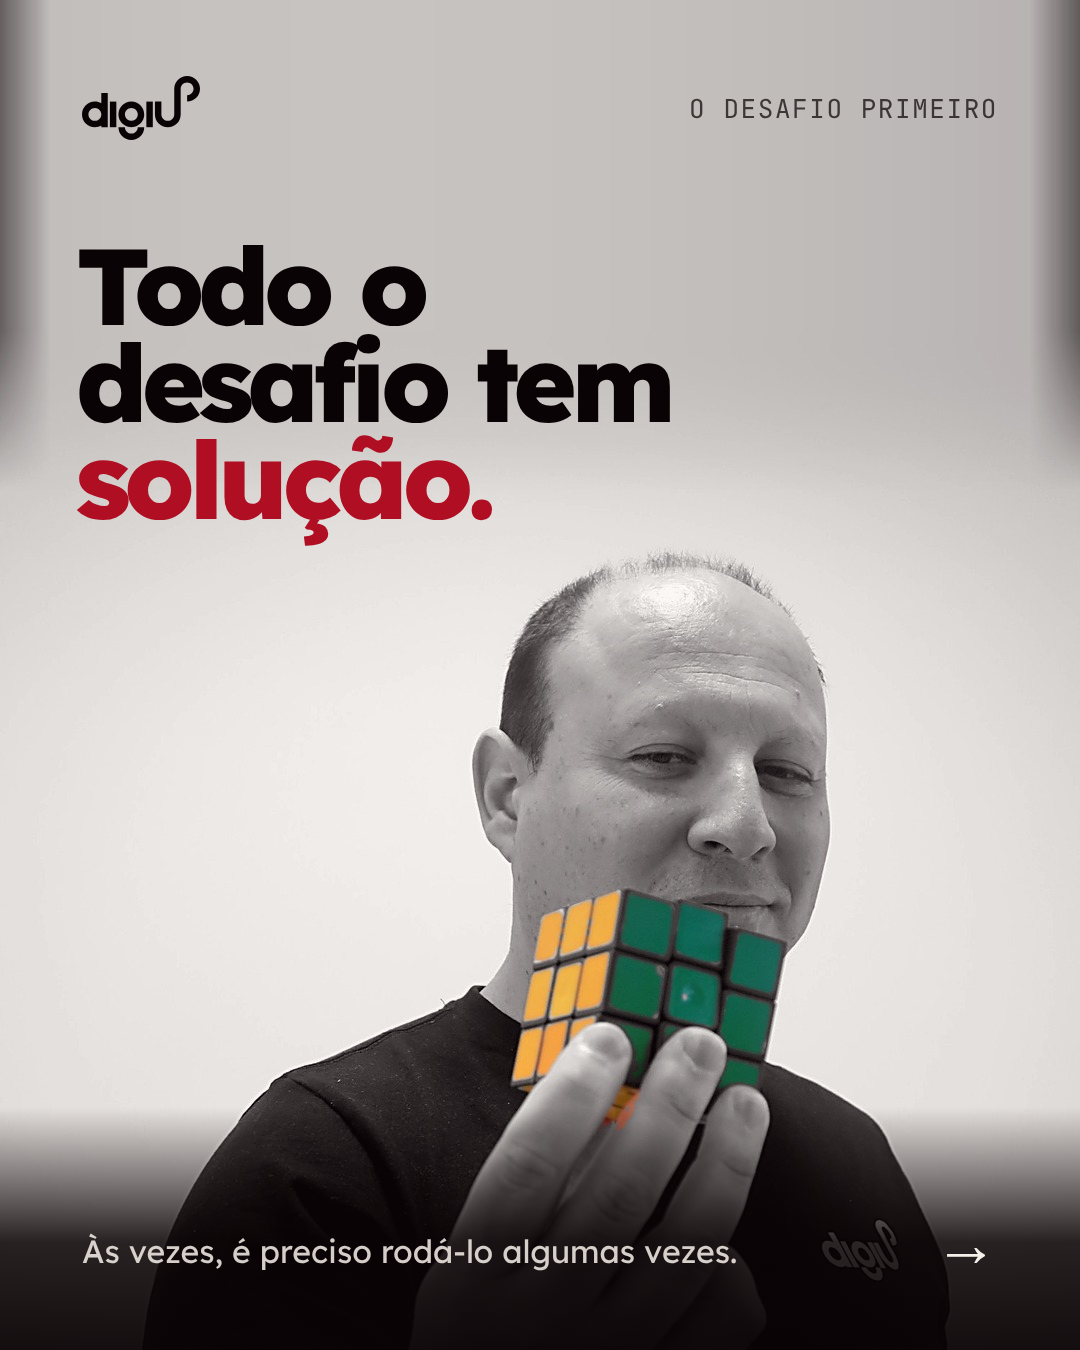
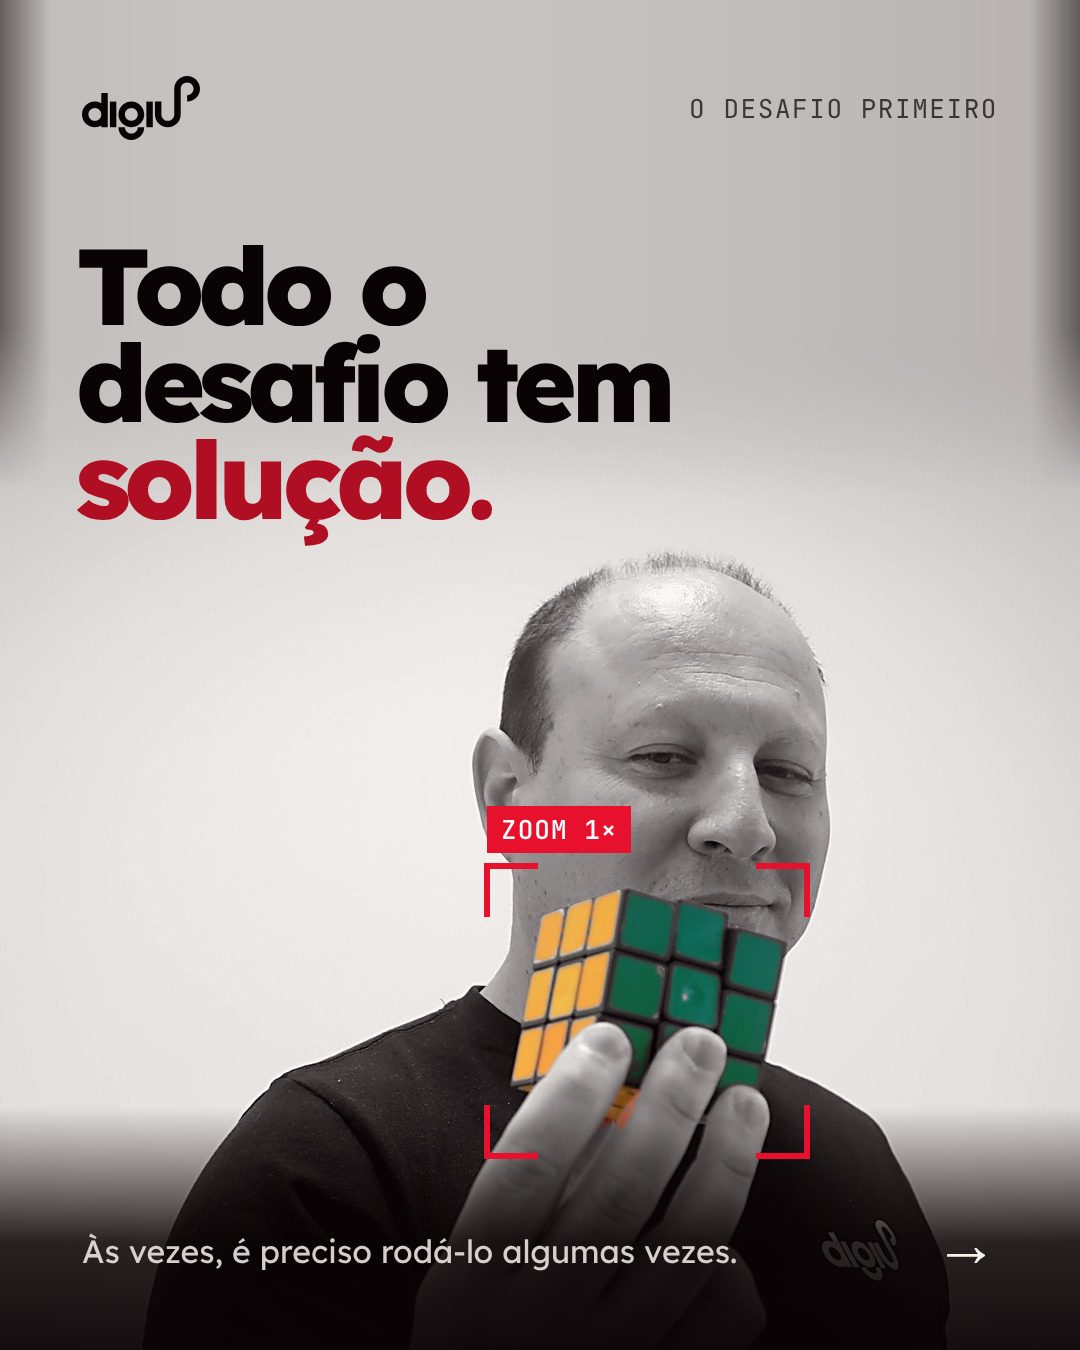
Carrossel do cubo: zoom de câmara entre os dois slides
Slide 1 ganha cantos de visor vermelhos à volta do cubo com «ZOOM 1×»;
o slide 2 passa a ser o zoom ao cubo (3×, a partir da foto original),
com o mesmo visor, «Qual é o seu cubo por resolver?», o botão sem seta
e o contacto hello@digiup.me.

Claude-Session: https://claude.ai/code/session_0173GtUhSHhHFQaxLRUGv3dG

diff --git a/equipa/carrossel-cubo/carrossel.html b/equipa/carrossel-cubo/carrossel.html
@@ -38,28 +38,26 @@ body{background:#17181a;font-family:var(--du-font-sans);display:flex;flex-wrap:w
   <div class="abs" style="inset:0;z-index:-1;background:linear-gradient(180deg,rgba(10,3,5,0) 82%,rgba(10,3,5,.86) 92%,rgba(10,3,5,.95) 100%)"></div>
   <div class="top"><img src="digiup-black.svg" alt="digiUP"><span class="mono up" style="color:var(--du-ink-72)">O desafio primeiro</span></div>
   <div class="abs giant" style="left:76px;top:236px;font-size:108px;color:var(--du-ink)">Todo o<br>desafio tem<br><span style="color:var(--du-crimson)">solução.</span></div>
+  <svg class="abs" aria-hidden="true" style="left:487px;top:866px;overflow:visible" width="320" height="290" viewBox="0 0 320 290"><path d="M0 48 V0 H48 M272 0 H320 V48 M320 242 V290 H272 M48 290 H0 V242" fill="none" stroke="#e8112d" stroke-width="6" stroke-linecap="square"/></svg>
+  <div class="abs" style="left:487px;top:806px;background:var(--du-red);color:var(--du-white);font-family:var(--du-font-mono);font-weight:500;font-size:26px;letter-spacing:.04em;padding:6px 14px">ZOOM 1×</div>
   <div class="abs" style="left:82px;right:82px;bottom:76px;display:flex;justify-content:space-between;align-items:flex-end;gap:40px">
     <p class="body" style="color:var(--du-cream-86);max-width:760px">Às vezes, é preciso rodá-lo algumas vezes.</p>
     <span class="arrow" aria-hidden="true" style="color:var(--du-cream)">→</span>
   </div>
 </section>
 
-<!-- 02 · contacto -->
+<!-- 02 · contacto: o zoom ao cubo -->
 <section class="s" id="s2" style="background:var(--du-black);color:var(--du-cream)">
-  <img class="abs" src="net-subtle-1080x1350.svg" alt="" style="inset:0;width:100%;height:100%;object-fit:cover;z-index:-2">
-  <div class="abs" style="inset:0;z-index:-1;background:radial-gradient(60% 40% at 78% 26%,rgba(176,14,34,.45) 0%,rgba(10,3,5,0) 70%)"></div>
-  <div class="top"><img src="digiup-white.svg" alt="digiUP"><span class="mono" style="color:var(--du-cream-86)">02/02</span></div>
-  <img class="abs" src="cubo-detalhe.jpg" alt="O cubo de Rubik a cores, em grande plano, seguro pelos dedos." style="right:82px;top:190px;width:420px;height:420px;border-radius:24px;object-fit:cover;box-shadow:0 0 0 10px var(--du-black),0 0 0 15px var(--du-red),0 0 60px 14px rgba(232,17,45,.4)">
-  <div class="abs" style="left:82px;top:200px;width:380px">
-    <div class="mono up" style="color:var(--du-cream-86)"><span class="dot"></span>Fale connosco</div>
-    <div class="mono" style="color:var(--du-cream-86);margin-top:180px">Engineering<br>Growth &amp; Strategy<br>Creative &amp; Content<br>Labs</div>
+  <img class="abs" src="cubo-zoom.jpg" alt="Grande plano do cubo de Rubik a cores, seguro pelos dedos, com o resto da imagem a preto e branco." style="inset:0;width:100%;height:100%;z-index:-2">
+  <div class="abs" style="inset:0;z-index:-1;background:linear-gradient(180deg,rgba(10,3,5,.6) 0%,rgba(10,3,5,0) 12%,rgba(10,3,5,0) 58%,rgba(10,3,5,.9) 68%,rgba(10,3,5,.96) 100%)"></div>
+  <div class="top"><img src="digiup-white.svg" alt="digiUP"><span class="mono" style="color:var(--du-cream)">02/02</span></div>
+  <svg class="abs" aria-hidden="true" style="left:96px;top:176px;overflow:visible" width="888" height="690" viewBox="0 0 888 690"><path d="M0 72 V0 H72 M816 0 H888 V72 M888 618 V690 H816 M72 690 H0 V618" fill="none" stroke="#e8112d" stroke-width="7" stroke-linecap="square"/></svg>
+  <div class="abs" style="left:118px;top:794px;background:var(--du-red);color:var(--du-white);font-family:var(--du-font-mono);font-weight:500;font-size:26px;letter-spacing:.04em;padding:6px 14px">ZOOM 3×</div>
+  <div class="abs" style="left:82px;right:82px;top:906px">
+    <div class="hl"><div>Qual é o seu</div><div class="c">cubo por resolver?</div></div>
+    <div style="margin-top:28px"><span class="pill">Fale-nos do seu desafio</span></div>
   </div>
-  <div class="abs" style="left:82px;right:82px;top:690px">
-    <div class="hl"><div>Qual é o seu</div><div class="c">cubo por</div><div class="r">resolver?</div></div>
-    <p class="body" style="margin-top:30px;color:var(--du-cream-86);max-width:860px">Conte-nos o desafio. Ajudamos a definir os próximos passos.</p>
-    <div style="margin-top:36px"><span class="pill">Fale-nos do seu desafio <span>→</span></span></div>
-  </div>
-  <div class="abs mono" style="left:82px;right:82px;bottom:76px;padding-top:24px;border-top:1px solid var(--du-cream-14);display:flex;justify-content:space-between;color:var(--du-cream-86)"><span>Mensagem: @digiup.me</span><span>digiup.me</span></div>
+  <div class="abs mono" style="left:82px;right:82px;bottom:76px;padding-top:24px;border-top:1px solid var(--du-cream-14);display:flex;justify-content:space-between;color:var(--du-cream-86)"><span>hello@digiup.me</span><span>digiup.me</span></div>
 </section>
 
 </body>
